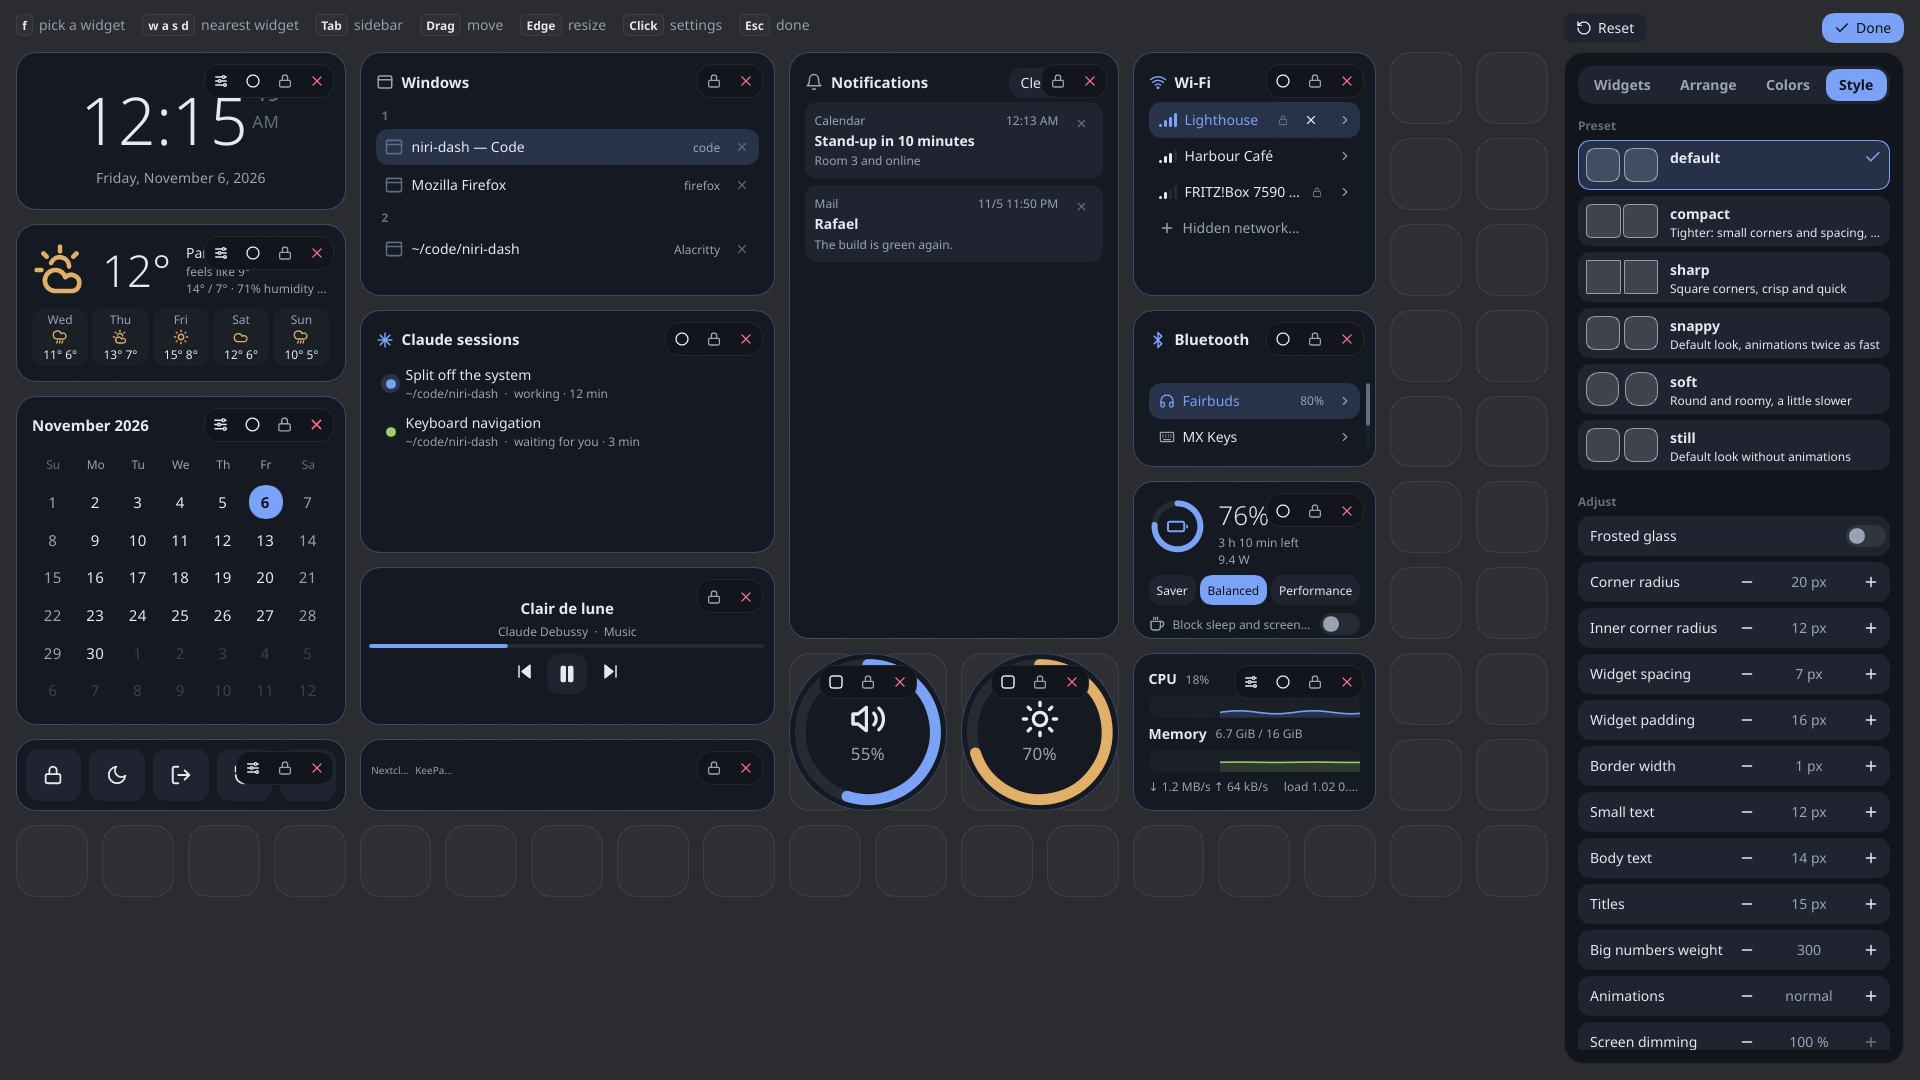
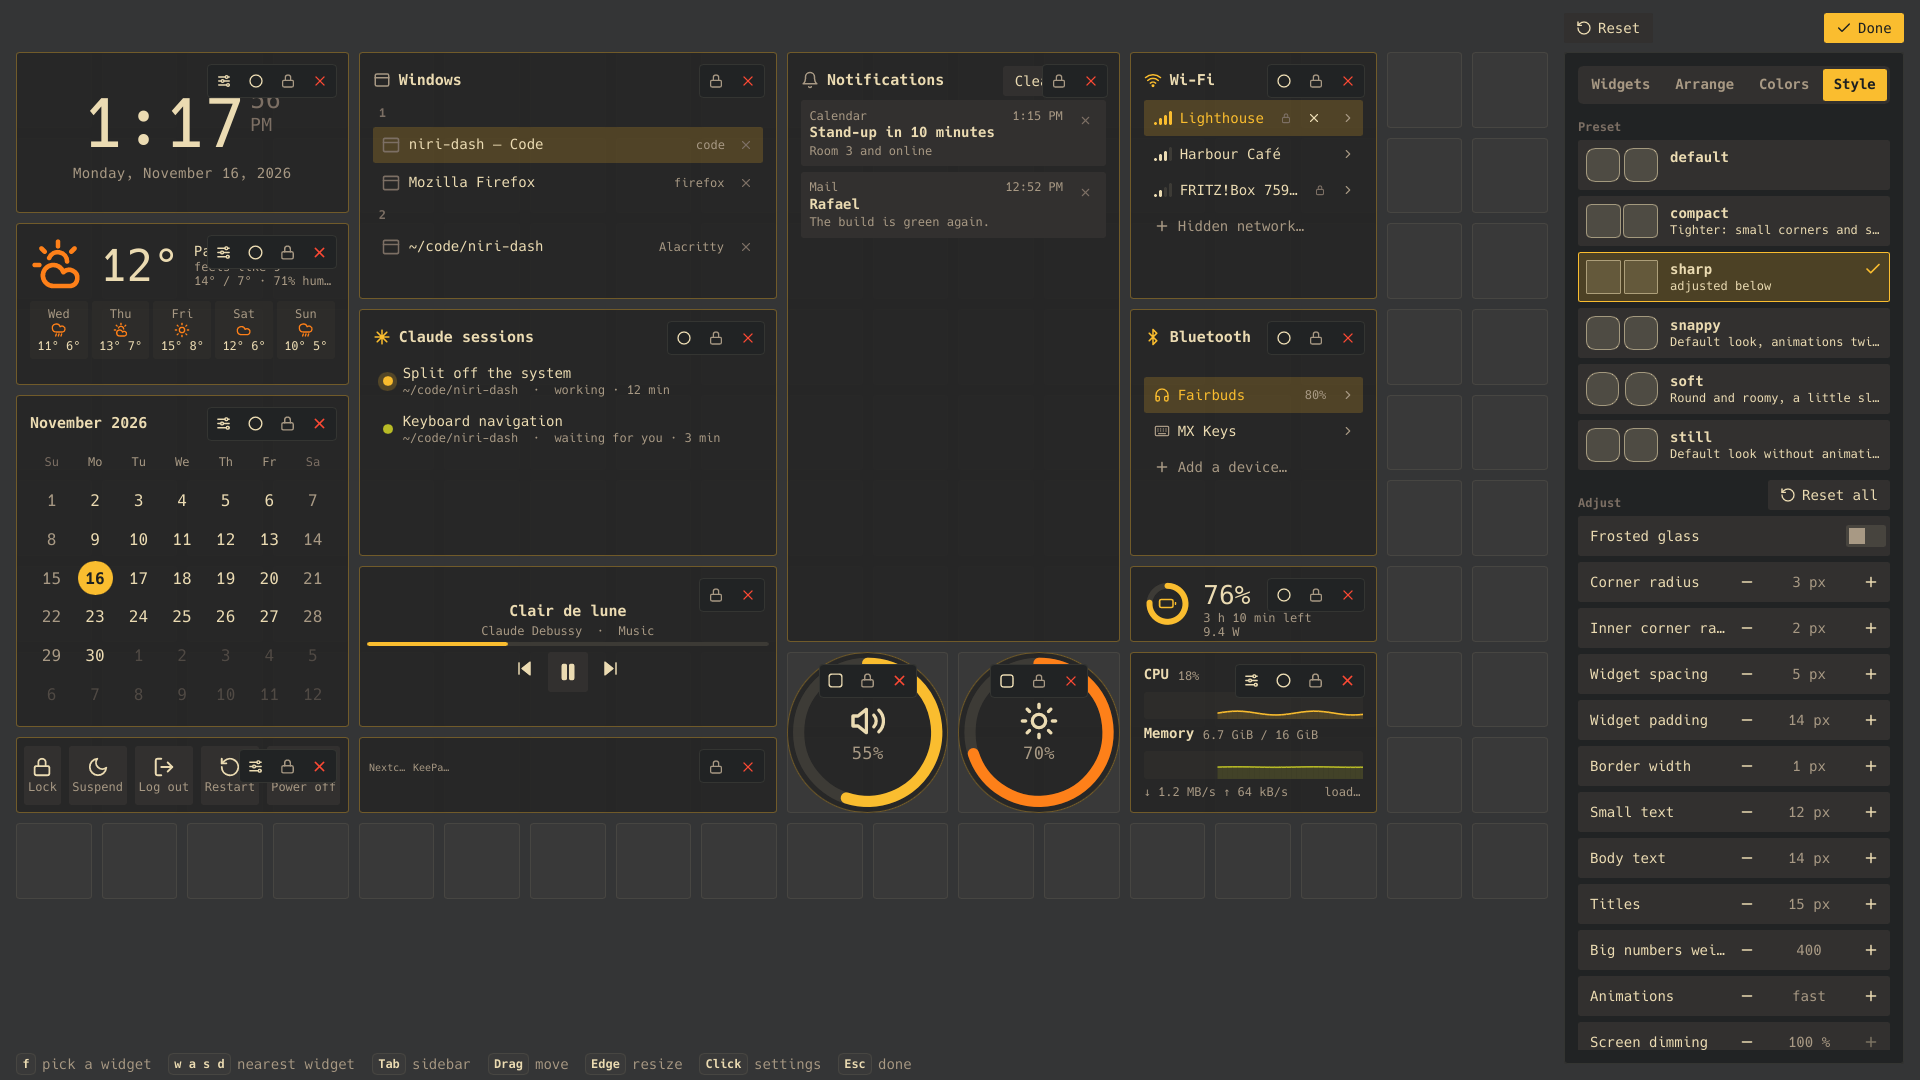
Manual and README: the keys in the tips, and new pictures
The keyboard pages say what the two lines of tips are and list every widget's
letters. The README is shorter and grouped around its pictures.

All pictures are rendered anew, in gruvbox-dark with the sharp style and the
Hack font, which book/screenshots.sh now sets itself; two are new (a widget
entered, a standalone app). The clicks the second tutorial's pictures replay
are set anew for that theme.

diff --git a/README.md b/README.md
@@ -10,31 +10,40 @@ background puts it away.
 
 **[Try it in your browser](https://barafael.github.io/niri-dash/)** · **[Read the manual](https://barafael.github.io/niri-dash/manual/)**
 
-The browser version is the same dashboard, keyboard and all, on a simulated system whose machine,
-network and notifications keep changing. The manual has a tutorial, how-to guides, and a reference
-for every widget, key, setting and command.
-
-## What it is
+The browser version is the same dashboard on a simulated system.
 
 - **One overlay, on demand.** A single daemon draws a layer-shell overlay with
-  [Slint](https://slint.dev), on the GPU through EGL or in software. While it is hidden it renders
-  nothing and its data sources go quiet.
-- **Widgets for the whole desktop:** time, windows, notifications, Wi-Fi, Bluetooth, volume, media,
-  battery, system load, and more. Most come in a rectangular and a round shape, and any one can run
-  on its own as a small app window: `niri-dash app clock`.
-- **Keyboard first.** Everything works without a mouse.
-- **Yours to arrange.** A Plasma-style edit mode: drag, resize, restyle, recolor. Your layout is a
-  plain text file.
+  [Slint](https://slint.dev), on the GPU or in software. Hidden, it renders nothing and its data
+  sources go quiet.
+- **Widgets for the whole desktop.** Most come in a rectangular and a round shape, and any one
+  runs on its own as a small window: `niri-dash app clock`.
+- **Yours to arrange.** Drag, resize, restyle, recolor. The layout is a plain text file.
+- **Works without a mouse**, and always shows which keys do what.
 
-## Screenshots
+## Widgets
+
+| | |
+|---|---|
+| **Time** | Clock, calendar, weather (Open-Meteo, no API key), timer, stopwatch, pomodoro, sleep timer |
+| **Activity** | Windows by workspace, notifications, clipboard history, sticky notes, Claude Code sessions and usage, a mascot, an About card |
+| **Media** | Now playing (MPRIS) |
+| **System** | CPU, memory, disks, network and GPU, battery and power profiles, privacy (who uses the microphone, camera or screen) |
+| **Devices** | Wi-Fi, Bluetooth, removable drives, phone (KDE Connect) |
+| **Controls** | Volume, brightness, night light, system tray, session (lock, suspend, log out, …), keyboard layout, color picker |
+
+Sizes and settings of each are in the [widget reference](https://barafael.github.io/niri-dash/manual/reference/widgets/index.html).
+
+<img src="book/src/images/app-sleep-timer.png" alt="The sleep timer as a window of its own, with its keys listed under it" width="320">
+
+*`niri-dash app sleep-timer`: a widget as its own window.*
+
+## Edit mode
 
 ![Edit mode, with the sidebar open on the Colors tab](book/src/images/edit-colors.png)
 
-*Edit mode: drag widgets, resize them from any edge, add more from the sidebar.*
-
-![Pressing f labels every widget](book/src/images/keys-labels.png)
-
-*Pressing `f` labels every widget; typing a label goes into that widget.*
+The pencil in the corner (or a right-click on the background) opens it. Drag widgets, resize them
+from any edge, add more from the sidebar. The sidebar also sets the grid, the color scheme and the
+style, and its Arrange tab lays the widgets out by itself (experimental).
 
 Color schemes and styles are separate, and mix freely:
 
@@ -44,20 +53,19 @@ Color schemes and styles are separate, and mix freely:
 | **nord, compact** | **rose-pine-dawn, default** |
 | ![Nord with the compact style: tighter spacing](book/src/images/style-nord-compact.png) | ![Rose Pine Dawn with the default style](book/src/images/style-rose-pine-dawn.png) |
 
-## What it shows
+The pictures above the table are gruvbox-dark with the sharp style and the Hack font.
 
-| | |
-|---|---|
-| **Time** | Clock, calendar, weather (Open-Meteo, no API key), timer, stopwatch, pomodoro, sleep timer |
-| **Activity** | Windows by workspace, notifications, clipboard history, sticky notes, Claude Code sessions and usage, a mascot that comments on your day, an About card and the build it is |
-| **Media** | Now playing (MPRIS) |
-| **System** | CPU, memory, disks, network and GPU, battery and power profiles (with a switch that blocks sleep and screen locking), privacy (who uses the microphone, camera or screen) |
-| **Devices** | Wi-Fi, Bluetooth, removable drives, phone (KDE Connect) |
-| **Controls** | Volume, brightness, night light, system tray, session (lock, suspend, log out, …), keyboard layout, color picker |
+## Keyboard
 
-Every widget, with its sizes and settings, is in the [widget reference](https://barafael.github.io/niri-dash/manual/reference/widgets/index.html).
+![Inside the notifications widget: its keys on the upper line along the bottom, the dashboard's on the lower](book/src/images/keys-widget.png)
 
-### What it reads
+`f` labels every widget; typing a label goes into that widget. The two lines along the bottom
+list every key that works just now: the widget's own above, the dashboard's below. A key that
+isn't listed does nothing. `e` blows a widget up, Ctrl+M moves it, Ctrl+R resizes it, Ctrl+E opens
+edit mode, Escape steps back. The [keyboard reference](https://barafael.github.io/niri-dash/manual/reference/keyboard.html)
+has all of them.
+
+## What it reads
 
 - **Clipboard history is opt-in.** niri-dash reads what you copy only while a clipboard widget is in
   your layout or `niri-dash app clipboard` is running. The history stays in memory and skips what
@@ -67,23 +75,7 @@ Every widget, with its sizes and settings, is in the [widget reference](https://
   login tokens.
 - **The weather widget is the only one that makes network requests of its own** (to Open-Meteo).
 
-### From the keyboard
-
-`f` labels every widget with the start of its name, and typing a label goes into that widget;
-`j`/`k`/`h`/`l` move inside it, `e` blows it up, `s` opens its settings, and Escape steps back.
-Ctrl+M moves the widget and Ctrl+R resizes it (`h`/`j`/`k`/`l` act on it until Escape; in resize
-mode Shift pulls a side in). Ctrl+E opens edit mode. The tips along the bottom of the screen
-always list the keys that work just now. Lists have letters of their own: `d` closes a window or dismisses a
-notification, `r` rescans Wi-Fi, `t` turns it on and off, `m` mutes, `1`–`0` set a slider to
-10–100 %, `x` ejects a drive, and so on. The calendar has a day cursor: `h`/`l` a day, `j`/`k` a
-week, `n`/`p` a month, `t` back to today, `Ctrl+C` copies the day as `YYYY-MM-DD`.
-
-### Edit mode
-
-The pencil in the corner (or a right-click on the background) opens edit mode. Its sidebar also sets
-the grid, the color scheme (gruvbox, catppuccin, nord, dracula, rose-pine, …) and the style: corners,
-spacing, fonts, animation speed, frosted glass. Its Arrange tab lays the widgets out by itself
-(experimental: its settings may change between releases).
+[SECURITY.md](SECURITY.md) says what else niri-dash touches, and how to report a problem.
 
 ## Where it runs
 
@@ -136,12 +128,6 @@ Konsole gets its tab brought up too. Noticing screen sharing needs niri. The man
 
 `~/.config` is `$XDG_CONFIG_HOME` where that is set. The manual lists
 [every file and environment variable](https://barafael.github.io/niri-dash/manual/reference/environment.html).
-
-## Where to read more
-
-- The [manual](https://barafael.github.io/niri-dash/manual/): start with the tutorial.
-- The [web version](https://barafael.github.io/niri-dash/): try it without installing.
-- [SECURITY.md](SECURITY.md): what niri-dash touches, and how to report a problem.
 
 ## Developing
 

diff --git a/book/src/reference/keyboard.md b/book/src/reference/keyboard.md
@@ -1,12 +1,14 @@
 # Keyboard
 
-niri-dash is built to be used from the keyboard. Keys fall into three levels: the dashboard,
-inside a widget, and edit mode, with two modes on top (moving and resizing a widget). Escape
-always steps back one level.
+Keys fall into three levels: the dashboard, inside a widget, and edit mode, with two modes on top
+(moving and resizing a widget). Escape always steps back one level.
 
-The **quick tips** along the bottom of the screen always list the keys that work right now, and
-change as you go. A widget being moved or resized also says so on itself, in a veil with the
-mode's name and keys.
+The **quick tips** along the bottom list every key that works right now, in two lines: the
+entered widget's own keys above, the dashboard's below. A widget's key is listed only where it
+does something (`u` unmounts shows on a mounted volume), and a key that isn't listed does
+nothing. A widget blown up with `e`, and a standalone app, show the tips under their own content.
+
+![Inside the notifications widget: its keys on the upper line, the dashboard's on the lower](../images/keys-widget.png)
 
 ![Pressing `f` labels every widget](../images/keys-labels.png)
 
@@ -30,24 +32,48 @@ A standalone app (`niri-dash app <widget>`) starts inside its widget.
 | `j` `k` | Moves between rows and buttons. Turns a knob or a lone slider down and up. |
 | `h` `l` | Moves sideways, or changes a slider. |
 | Tab, Shift+Tab | Steps through the stops. |
-| Enter, Space | Presses. |
-| `g` `G` | Jumps to the first or last item. |
+| Enter, Space | Presses. Space is a key of its own where the tips list it (play and pause). |
+| `g` `G` | Jumps to the first or last item, where there are more than two. |
+| `y` (or Ctrl+C) | Copies what is under the cursor, where the tips list it. |
+| Ctrl+`d` Ctrl+`u` | Scrolls a list that is only to be read (a network's details, what blocks sleep, the laps), half a page down or up. |
 | `e` | Blows the widget up in the middle of the dashboard (round widgets open into their full form). `e` or Escape puts it back. |
 | `s` | Opens the widget's settings, the same card as in edit mode. |
 | Ctrl+`m` | Moves the widget: [move mode](#moving-and-resizing). |
 | Ctrl+`r` | Resizes the widget: [resize mode](#moving-and-resizing). |
 | Enter on a text field | Types into it. Escape gets you out again. |
 
-Lists have letters of their own:
+Widgets have letters of their own:
 
-| Key | Does |
-|---|---|
-| `d` | Closes a window, or dismisses a notification. |
-| `r` | Rescans Wi-Fi. |
-| `t` | Turns the thing on and off. |
-| `m` | Mutes. |
-| `1` … `9`, `0` | Sets a slider to 10 … 90 %, and 100 %. |
-| `x` | Ejects a drive. |
+| Widget | Key | Does |
+|---|---|---|
+| Windows | `d` or `x` | Closes the window. |
+| Notifications | `d` | Dismisses the notification. |
+| | `D` | Clears all. |
+| | `z` | Shows the do-not-disturb choices. |
+| Clipboard | `d` | Removes the entry. |
+| | `D` | Clears the history. |
+| Tray | `m` | Opens the icon's menu. In a menu, however it was opened: `j` `k` move, Enter picks, `q` or Escape closes. |
+| Wi-Fi | `r` | Rescans. |
+| | `t` | Turns Wi-Fi on and off. |
+| | `d` | Disconnects. |
+| | `i` | Types into the field under the cursor (Enter does too). |
+| Bluetooth | `r` | Looks for devices, or stops looking. |
+| | `t` | Turns Bluetooth on and off. |
+| | `i` | Types the device's new name; `l` goes to the Rename button. |
+| Volume | `m` | Mutes the slider under the cursor. |
+| Volume, Brightness | `1` … `9`, `0` | Sets the slider to 10 … 90 %, and 100 %. |
+| Night light | `t` | Turns it on and off. |
+| Removable drives | `u` | Unmounts the volume. |
+| | `x` | Ejects the drive of the volume under the cursor. |
+| | `X` | Ejects all. |
+| Phone | `r` | Rings it. |
+| | `u` | Sends files. |
+| Color picker | `p` | Picks a colour from the screen. |
+| Timer, Stopwatch | Space | Starts and pauses. |
+| | `r` | Resets. |
+| | `a` | Takes a lap (stopwatch, while it runs). |
+| Notes | Menu | Opens the cut, copy and paste menu. Every other key is the text's. |
+| About | Enter | Opens the page of the link under the cursor. |
 
 ### Calendar
 
@@ -57,6 +83,7 @@ Lists have letters of their own:
 | `j` `k` | A week forward, back. |
 | `n` `p` | A month forward, back. |
 | `t` | Back to today. |
+| `y` (or Ctrl+C) | Copies the day as `YYYY-MM-DD`. |
 
 ### Volume
 
@@ -162,7 +189,9 @@ for it is refused with a message. The status line shows the size after each step
 
 In a text field: Enter saves, Escape discards, and Tab leaves the field.
 
-When you carry a new widget in from the Widgets tab: a click places it, and Escape cancels.
+When you carry a widget with the pointer: a click or Enter places it, and Escape cancels. A
+widget added from the Widgets tab with Enter goes where there is room and is in
+[move mode](#moving-and-resizing) at once, so `h` `j` `k` `l` take it where you want it.
 
 On the Widgets tab, the row of categories under **Add** is one stop: `h` `l` move between the
 categories, and Enter or Space picks or unpicks the one under the cursor. `j` `k` skip the
@@ -178,7 +207,11 @@ adjusted all give way.
 |---|---|
 | Drag the widget | Moves it. |
 | Drag an edge or corner | Resizes it. |
-| The ◯ ▢ button | Changes its shape. |
+| Ctrl+`m`, Ctrl+`r` | [Move and resize mode](#moving-and-resizing), by keys. |
+| The ◯ ▢ button, or `o` | Changes its shape. |
+| The pin button, or `p` | Pins it, or unpins it. |
+| The settings button, or `s` | Opens its settings. |
+| The remove button, or `x` | Removes it. |
 | Escape | Done. |
 
 This doesn't work in a standalone app, or in edit mode, where every widget is open already.

diff --git a/book/src/tutorials/first-dashboard.md b/book/src/tutorials/first-dashboard.md
@@ -8,8 +8,8 @@ system is read or changed.
 
 Open <https://barafael.github.io/niri-dash/> in a browser.
 
-You see the dashboard: a clock, the weather, a calendar, a list of windows, Wi-Fi, Bluetooth and
-more, on a machine whose values keep changing.
+You see the dashboard, on a machine whose values keep changing. (The pictures here use another
+color scheme than the web version starts with.)
 
 ![The dashboard](../images/dashboard.png)
 
@@ -26,14 +26,14 @@ others.
 
 Type `ca`.
 
-The calendar is now the widget you are working in. Press `n`: the calendar shows the next
-month. Press `t`: it comes back to today.
+The calendar is now the widget you are working in, and the upper line of tips along the bottom
+lists its keys. Press `n`: the calendar shows the next month. Press `t`: it comes back to today.
 
 ## 4. Blow the calendar up
 
 Press `e`.
 
-The calendar opens in the middle of the dashboard, large.
+The calendar opens in the middle of the dashboard, large, with the tips under it.
 
 ![The calendar, expanded](../images/keys-expanded.png)
 
@@ -51,8 +51,7 @@ click brings it back.)
 Click the pencil in the top right corner.
 
 The widgets get small toolbars, empty cells show behind them, and a sidebar opens on the right
-with four tabs: Widgets, Arrange, Colors and Style. The tips along the bottom of the screen list the keys
-that work at the moment.
+with four tabs: Widgets, Arrange, Colors and Style.
 
 ![Edit mode](../images/edit-mode.png)
 

diff --git a/book/src/explanation/keyboard-model.md b/book/src/explanation/keyboard-model.md
@@ -93,4 +93,10 @@ what they mean follows what the widget is: down a list, along a slider, across a
 widget adds letters for its own actions (`d` to close a window, `t` to switch a radio, `x` to
 eject a drive).
 
+The same letter can mean different things in different widgets: `r` rescans Wi-Fi, rings a phone
+and resets a timer. So no key is hidden. Each widget keeps one list of its keys, what they do,
+and whether each does anything where the cursor is; the quick tips show that list, and a letter
+reaches the widget only if the list has it. The tips are always under the grid, so entering a
+widget moves nothing; a widget that has the screen to itself shows them under its own content.
+
 Reference: [Keyboard](../reference/keyboard.md).

diff --git a/book/src/how-to/standalone-apps.md b/book/src/how-to/standalone-apps.md
@@ -7,7 +7,10 @@ niri-dash app clock
 ```
 
 If that app is already running, the command shows and focuses it. The widget name is the one
-used in `config.kdl`: see the [widget index](../reference/widgets/index.md).
+used in `config.kdl`: see the [widget index](../reference/widgets/index.md). Under the widget,
+the window lists the keys that work in it.
+
+![The sleep timer as a window of its own](../images/app-sleep-timer.png)
 
 ## Bind a key that opens and closes it
 
